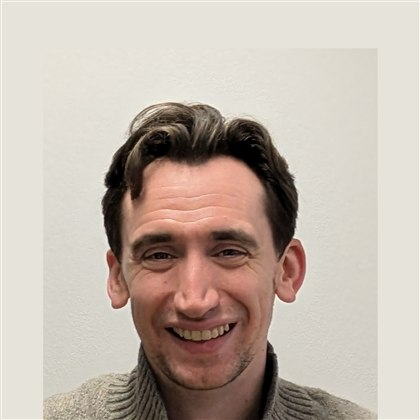
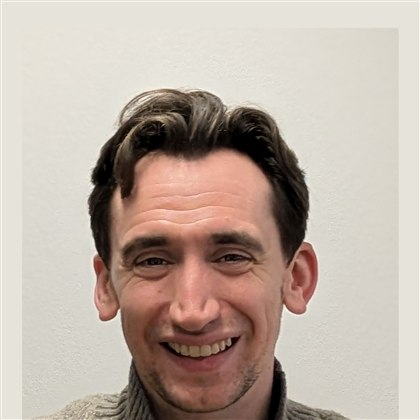
modified:   committee/Ben_Sulser_sq.jpg 	modified:   committee/Karolina_Wachala_sq.jpg 	added sponsors:   index.html 	new file:   sponsors/SCNAT.png 	new file:   sponsors/Swiss_Botanical_Society.jpg 	new file:   sponsors/Swiss_Systematics_Society.png 	new file:   sponsors/Swiss_Zoological_Society.jp

Changed region(s): [[0.031, 0.1857, 0.9595, 1.0], [0.4333, 0.4643, 0.4952, 0.4952]]

diff --git a/index.html b/index.html
@@ -120,7 +120,7 @@
         }
 
         .hero .artwork {
-            width: min(92vw, 460px);
+            width: min(92vw, 680px);
             margin: 0 auto;
             background: #fff;
             border-radius: 18px;
@@ -444,15 +444,23 @@
         }
 
         .sponsor-slot {
-            width: 160px;
-            height: 90px;
-            border: 2px dashed #cfe8ee;
+            width: 200px;
+            height: 120px;
+            background: #fff;
+            border: 1px solid #d8ecf1;
             border-radius: 10px;
             display: flex;
             align-items: center;
             justify-content: center;
+            padding: 20px;
             color: var(--blue-light);
             font-size: 0.85em;
+        }
+
+        .sponsor-slot img {
+            max-width: 100%;
+            max-height: 100%;
+            object-fit: contain;
         }
 
         /* ---------- Footer ---------- */
@@ -502,11 +510,10 @@
     </header>
 
     <section class="hero" id="top">
-        <div class="kicker">Swiss Conference of Organismic Biology</div>
         <div class="artwork">
             <img src="biology27-artwork.jpg" alt="Biology27 conference artwork: an illustrated river of life running from DNA and microorganisms through insects, birds and mammals to fish and a turtle">
         </div>
-        <div class="subtitle">The annual joint meeting of Swiss organismic biology</div>
+        <div class="subtitle">The largest conference of organismic biology in Switzerland</div>
         <div class="meta">
             <span>📍 Bern</span>
             <span>📅 18–19 February 2027</span>
@@ -748,11 +755,18 @@
             <div class="section-kicker">Thank you</div>
             <h2 class="section-title">Sponsors</h2>
             <div class="sponsor-grid">
-                <div class="sponsor-slot">Sponsor logo</div>
-                <div class="sponsor-slot">Sponsor logo</div>
-                <div class="sponsor-slot">Sponsor logo</div>
-                <div class="sponsor-slot">Sponsor logo</div>
-                <div class="sponsor-slot">Sponsor logo</div>
+                <div class="sponsor-slot">
+                    <img src="sponsors/SCNAT.png" alt="SCNAT">
+                </div>
+                <div class="sponsor-slot">
+                    <img src="sponsors/Swiss_Botanical_Society.jpg" alt="Swiss Botanical Society">
+                </div>
+                <div class="sponsor-slot">
+                    <img src="sponsors/Swiss_Systematics_Society.png" alt="Swiss Systematics Society">
+                </div>
+                <div class="sponsor-slot">
+                    <img src="sponsors/Swiss_Zoological_Society.jpg" alt="Swiss Zoological Society">
+                </div>
             </div>
         </div>
     </section>
